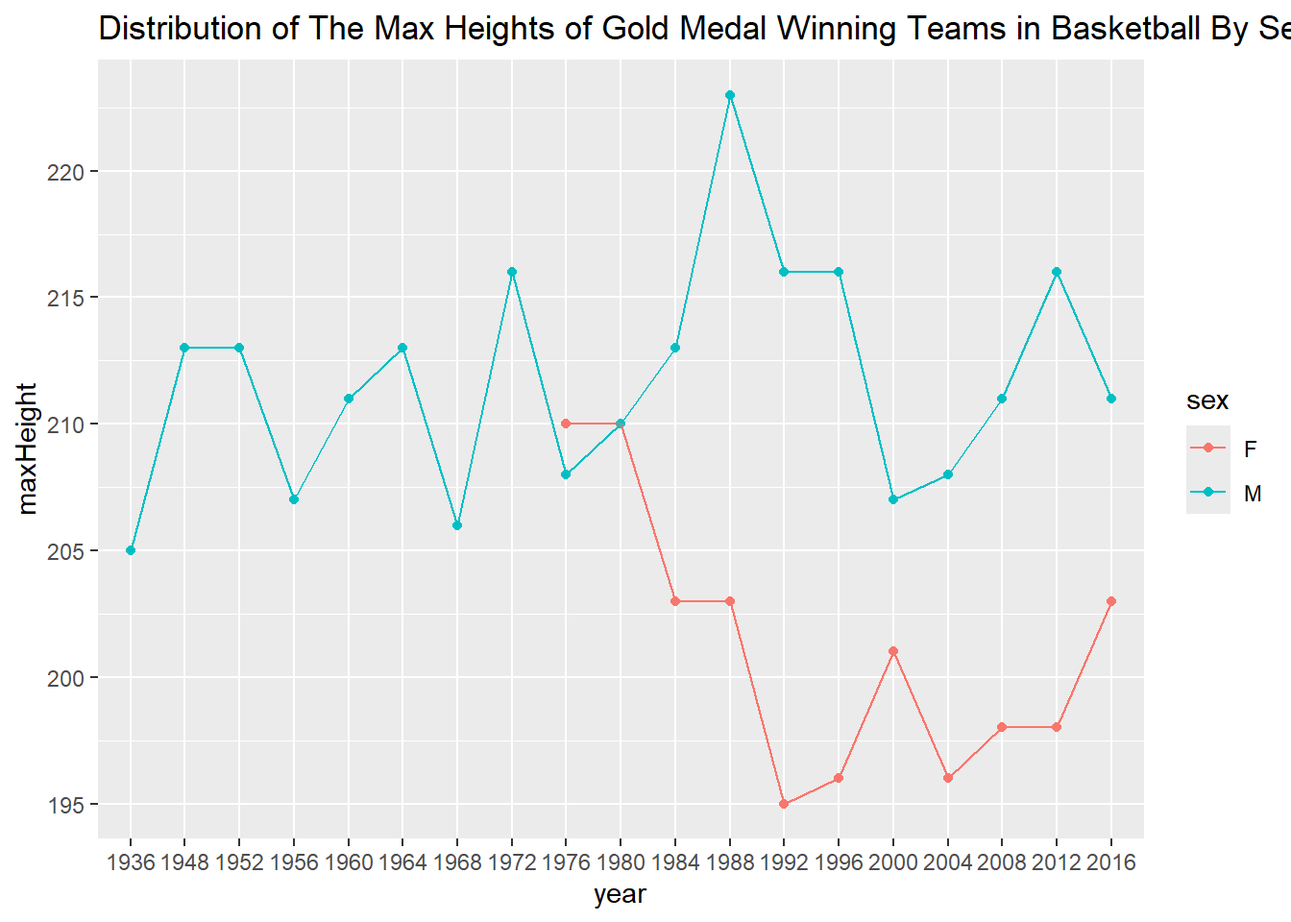
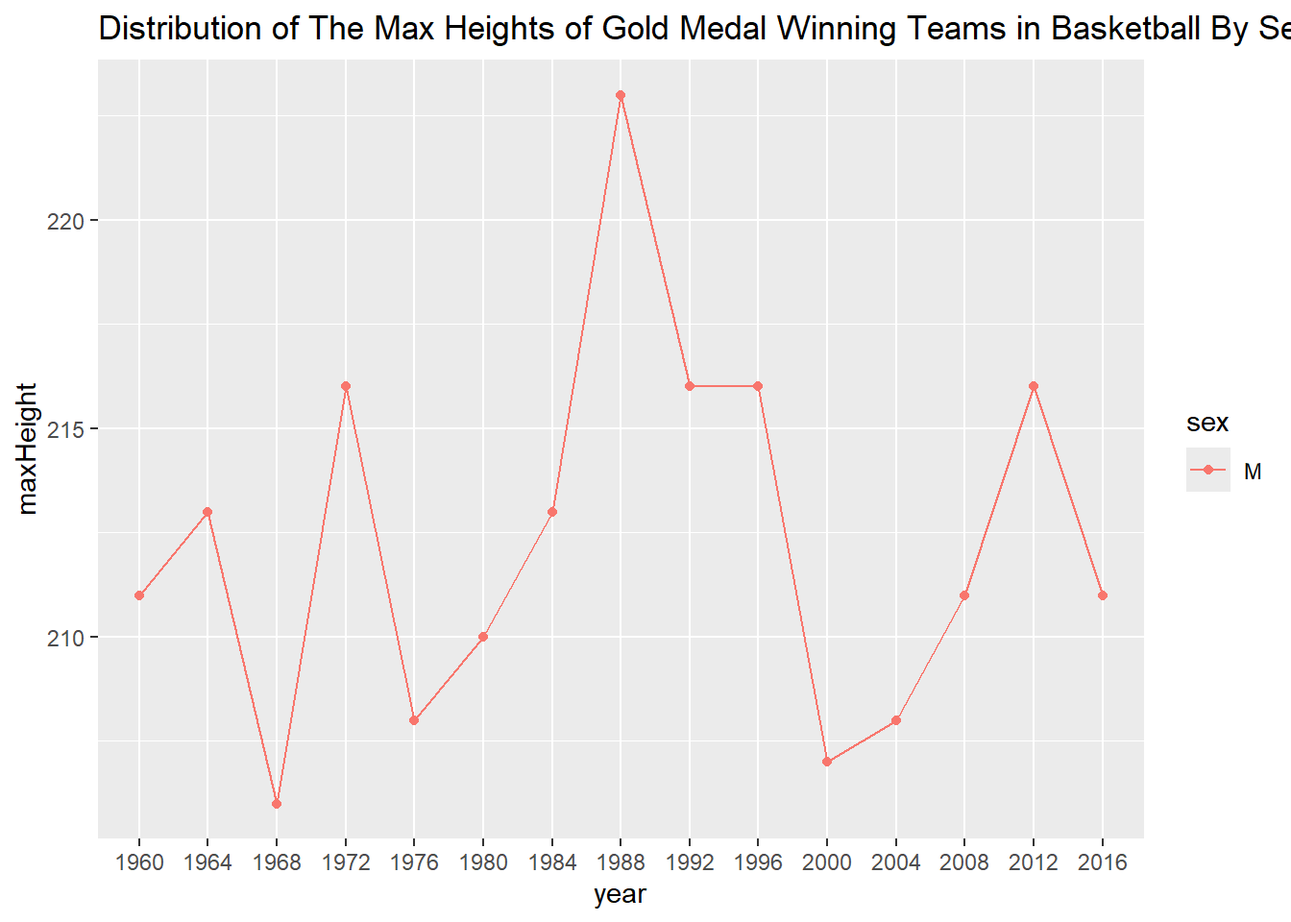
tidy tuesday 3 commit

diff --git a/TidyTuesday1.html b/TidyTuesday1.html
@@ -126,12 +126,14 @@ dbl  (5): id, age, height, weight, year
 <div class="sourceCode cell-code" id="cb5"><pre class="sourceCode r code-with-copy"><code class="sourceCode r"><span id="cb5-1"><a href="#cb5-1" aria-hidden="true" tabindex="-1"></a>olympics3 <span class="ot">&lt;-</span> olympics <span class="sc">%&gt;%</span></span>
 <span id="cb5-2"><a href="#cb5-2" aria-hidden="true" tabindex="-1"></a>  <span class="fu">filter</span>(sport <span class="sc">==</span> <span class="st">"Basketball"</span>) <span class="sc">%&gt;%</span></span>
 <span id="cb5-3"><a href="#cb5-3" aria-hidden="true" tabindex="-1"></a>  <span class="fu">filter</span>(medal <span class="sc">==</span> <span class="st">"Gold"</span>) <span class="sc">%&gt;%</span></span>
-<span id="cb5-4"><a href="#cb5-4" aria-hidden="true" tabindex="-1"></a>  <span class="fu">na.omit</span>() <span class="sc">%&gt;%</span></span>
-<span id="cb5-5"><a href="#cb5-5" aria-hidden="true" tabindex="-1"></a>  <span class="fu">group_by</span>(year)</span>
-<span id="cb5-6"><a href="#cb5-6" aria-hidden="true" tabindex="-1"></a></span>
-<span id="cb5-7"><a href="#cb5-7" aria-hidden="true" tabindex="-1"></a>olympics4 <span class="ot">&lt;-</span> olympics3 <span class="sc">%&gt;%</span></span>
-<span id="cb5-8"><a href="#cb5-8" aria-hidden="true" tabindex="-1"></a>  <span class="fu">mutate</span>(<span class="at">avgheight =</span> <span class="fu">mean</span>(height)) <span class="sc">%&gt;%</span></span>
-<span id="cb5-9"><a href="#cb5-9" aria-hidden="true" tabindex="-1"></a>  <span class="fu">mutate</span>(<span class="at">year =</span> <span class="fu">as.factor</span>(year))</span></code><button title="Copy to Clipboard" class="code-copy-button"><i class="bi"></i></button></pre></div>
+<span id="cb5-4"><a href="#cb5-4" aria-hidden="true" tabindex="-1"></a>  <span class="fu">filter</span>(sex <span class="sc">==</span> <span class="st">"M"</span>) <span class="sc">%&gt;%</span></span>
+<span id="cb5-5"><a href="#cb5-5" aria-hidden="true" tabindex="-1"></a>  <span class="fu">filter</span>(year <span class="sc">&gt;</span> <span class="dv">1957</span>) <span class="sc">%&gt;%</span></span>
+<span id="cb5-6"><a href="#cb5-6" aria-hidden="true" tabindex="-1"></a>  <span class="fu">na.omit</span>() <span class="sc">%&gt;%</span></span>
+<span id="cb5-7"><a href="#cb5-7" aria-hidden="true" tabindex="-1"></a>  <span class="fu">group_by</span>(year)</span>
+<span id="cb5-8"><a href="#cb5-8" aria-hidden="true" tabindex="-1"></a></span>
+<span id="cb5-9"><a href="#cb5-9" aria-hidden="true" tabindex="-1"></a>olympics4 <span class="ot">&lt;-</span> olympics3 <span class="sc">%&gt;%</span></span>
+<span id="cb5-10"><a href="#cb5-10" aria-hidden="true" tabindex="-1"></a>  <span class="fu">mutate</span>(<span class="at">avgheight =</span> <span class="fu">mean</span>(height)) <span class="sc">%&gt;%</span></span>
+<span id="cb5-11"><a href="#cb5-11" aria-hidden="true" tabindex="-1"></a>  <span class="fu">mutate</span>(<span class="at">year =</span> <span class="fu">as.factor</span>(year))</span></code><button title="Copy to Clipboard" class="code-copy-button"><i class="bi"></i></button></pre></div>
 </div>
 <div class="cell">
 <div class="sourceCode cell-code" id="cb6"><pre class="sourceCode r code-with-copy"><code class="sourceCode r"><span id="cb6-1"><a href="#cb6-1" aria-hidden="true" tabindex="-1"></a>olympics <span class="sc">%&gt;%</span></span>
@@ -204,21 +206,16 @@ dbl  (5): id, age, height, weight, year
 </div>
 </div>
 <div class="cell">
-<div class="sourceCode cell-code" id="cb11"><pre class="sourceCode r code-with-copy"><code class="sourceCode r"><span id="cb11-1"><a href="#cb11-1" aria-hidden="true" tabindex="-1"></a>olympics5 <span class="ot">&lt;-</span> olympics <span class="sc">%&gt;%</span></span>
-<span id="cb11-2"><a href="#cb11-2" aria-hidden="true" tabindex="-1"></a>  <span class="fu">filter</span>(sport <span class="sc">==</span> <span class="st">'Basketball'</span>) <span class="sc">%&gt;%</span></span>
-<span id="cb11-3"><a href="#cb11-3" aria-hidden="true" tabindex="-1"></a>  na.omit <span class="sc">%&gt;%</span></span>
-<span id="cb11-4"><a href="#cb11-4" aria-hidden="true" tabindex="-1"></a>  <span class="fu">group_by</span>(medal, year) <span class="sc">%&gt;%</span></span>
-<span id="cb11-5"><a href="#cb11-5" aria-hidden="true" tabindex="-1"></a>  <span class="fu">mutate</span>(<span class="at">meanHeight =</span> <span class="fu">mean</span>(height))</span>
-<span id="cb11-6"><a href="#cb11-6" aria-hidden="true" tabindex="-1"></a></span>
-<span id="cb11-7"><a href="#cb11-7" aria-hidden="true" tabindex="-1"></a> olympics5 <span class="sc">%&gt;%</span></span>
-<span id="cb11-8"><a href="#cb11-8" aria-hidden="true" tabindex="-1"></a>  <span class="fu">ggplot</span>(<span class="fu">aes</span>(<span class="at">x =</span> year, <span class="at">y =</span> meanHeight, <span class="at">color =</span> medal, <span class="at">shape =</span> medal)) <span class="sc">+</span></span>
-<span id="cb11-9"><a href="#cb11-9" aria-hidden="true" tabindex="-1"></a>  <span class="fu">geom_point</span>() <span class="sc">+</span></span>
-<span id="cb11-10"><a href="#cb11-10" aria-hidden="true" tabindex="-1"></a>  <span class="fu">geom_line</span>(<span class="at">size =</span> <span class="dv">1</span>) <span class="sc">+</span></span>
-<span id="cb11-11"><a href="#cb11-11" aria-hidden="true" tabindex="-1"></a>  <span class="fu">labs</span>(<span class="at">title =</span> <span class="st">"Distribution of Average Heights of Olympic Teams Over Time by Medal"</span>)</span></code><button title="Copy to Clipboard" class="code-copy-button"><i class="bi"></i></button></pre></div>
-<div class="cell-output cell-output-stderr">
-<pre><code>Warning: Using `size` aesthetic for lines was deprecated in ggplot2 3.4.0.
-ℹ Please use `linewidth` instead.</code></pre>
-</div>
+<div class="sourceCode cell-code" id="cb11"><pre class="sourceCode r code-with-copy"><code class="sourceCode r"><span id="cb11-1"><a href="#cb11-1" aria-hidden="true" tabindex="-1"></a>olympics6 <span class="ot">&lt;-</span> olympics4 <span class="sc">%&gt;%</span></span>
+<span id="cb11-2"><a href="#cb11-2" aria-hidden="true" tabindex="-1"></a>  <span class="fu">group_by</span>(year,sex) <span class="sc">%&gt;%</span></span>
+<span id="cb11-3"><a href="#cb11-3" aria-hidden="true" tabindex="-1"></a>  <span class="fu">mutate</span>(<span class="at">mHeight =</span> <span class="fu">mean</span>(height)) <span class="sc">%&gt;%</span></span>
+<span id="cb11-4"><a href="#cb11-4" aria-hidden="true" tabindex="-1"></a>  <span class="fu">ggplot</span>(<span class="fu">aes</span>(<span class="at">x =</span> year, <span class="at">y =</span> mHeight, <span class="at">color =</span> sex, <span class="at">group =</span> sex)) <span class="sc">+</span></span>
+<span id="cb11-5"><a href="#cb11-5" aria-hidden="true" tabindex="-1"></a>  <span class="fu">geom_point</span>() <span class="sc">+</span></span>
+<span id="cb11-6"><a href="#cb11-6" aria-hidden="true" tabindex="-1"></a>  <span class="fu">geom_line</span>() <span class="sc">+</span></span>
+<span id="cb11-7"><a href="#cb11-7" aria-hidden="true" tabindex="-1"></a>  <span class="fu">labs</span>(<span class="at">title =</span> <span class="st">"Average Heights of Gold Medal Winning Basketball Teams Divided by Sex"</span>, <span class="at">y =</span> <span class="st">"Average Height"</span>) <span class="sc">+</span></span>
+<span id="cb11-8"><a href="#cb11-8" aria-hidden="true" tabindex="-1"></a>  <span class="fu">theme_minimal</span>()</span>
+<span id="cb11-9"><a href="#cb11-9" aria-hidden="true" tabindex="-1"></a></span>
+<span id="cb11-10"><a href="#cb11-10" aria-hidden="true" tabindex="-1"></a>olympics6</span></code><button title="Copy to Clipboard" class="code-copy-button"><i class="bi"></i></button></pre></div>
 <div class="cell-output-display">
 <div>
 <figure class="figure">
@@ -228,16 +225,13 @@ dbl  (5): id, age, height, weight, year
 </div>
 </div>
 <div class="cell">
-<div class="sourceCode cell-code" id="cb13"><pre class="sourceCode r code-with-copy"><code class="sourceCode r"><span id="cb13-1"><a href="#cb13-1" aria-hidden="true" tabindex="-1"></a>olympics6 <span class="ot">&lt;-</span> olympics4 <span class="sc">%&gt;%</span></span>
-<span id="cb13-2"><a href="#cb13-2" aria-hidden="true" tabindex="-1"></a>  <span class="fu">group_by</span>(year,sex) <span class="sc">%&gt;%</span></span>
-<span id="cb13-3"><a href="#cb13-3" aria-hidden="true" tabindex="-1"></a>  <span class="fu">mutate</span>(<span class="at">mHeight =</span> <span class="fu">mean</span>(height)) <span class="sc">%&gt;%</span></span>
-<span id="cb13-4"><a href="#cb13-4" aria-hidden="true" tabindex="-1"></a>  <span class="fu">ggplot</span>(<span class="fu">aes</span>(<span class="at">x =</span> year, <span class="at">y =</span> mHeight, <span class="at">color =</span> sex, <span class="at">group =</span> sex)) <span class="sc">+</span></span>
-<span id="cb13-5"><a href="#cb13-5" aria-hidden="true" tabindex="-1"></a>  <span class="fu">geom_point</span>() <span class="sc">+</span></span>
-<span id="cb13-6"><a href="#cb13-6" aria-hidden="true" tabindex="-1"></a>  <span class="fu">geom_line</span>() <span class="sc">+</span></span>
-<span id="cb13-7"><a href="#cb13-7" aria-hidden="true" tabindex="-1"></a>  <span class="fu">labs</span>(<span class="at">title =</span> <span class="st">"Average Heights of Gold Medal Winning Basketball Teams Divided by Sex"</span>, <span class="at">y =</span> <span class="st">"Average Height"</span>) <span class="sc">+</span></span>
-<span id="cb13-8"><a href="#cb13-8" aria-hidden="true" tabindex="-1"></a>  <span class="fu">theme_minimal</span>()</span>
-<span id="cb13-9"><a href="#cb13-9" aria-hidden="true" tabindex="-1"></a></span>
-<span id="cb13-10"><a href="#cb13-10" aria-hidden="true" tabindex="-1"></a>olympics6</span></code><button title="Copy to Clipboard" class="code-copy-button"><i class="bi"></i></button></pre></div>
+<div class="sourceCode cell-code" id="cb12"><pre class="sourceCode r code-with-copy"><code class="sourceCode r"><span id="cb12-1"><a href="#cb12-1" aria-hidden="true" tabindex="-1"></a>olympics4 <span class="sc">%&gt;%</span></span>
+<span id="cb12-2"><a href="#cb12-2" aria-hidden="true" tabindex="-1"></a>  <span class="fu">filter</span>(sex <span class="sc">==</span> <span class="st">'M'</span>) <span class="sc">%&gt;%</span></span>
+<span id="cb12-3"><a href="#cb12-3" aria-hidden="true" tabindex="-1"></a>  <span class="fu">ggplot</span>(<span class="fu">aes</span>(<span class="at">x =</span> height, <span class="at">fill =</span> year)) <span class="sc">+</span></span>
+<span id="cb12-4"><a href="#cb12-4" aria-hidden="true" tabindex="-1"></a>  <span class="fu">geom_boxplot</span>() <span class="sc">+</span></span>
+<span id="cb12-5"><a href="#cb12-5" aria-hidden="true" tabindex="-1"></a>  <span class="fu">facet_wrap</span>(year<span class="sc">~</span>., <span class="at">nrow =</span> <span class="dv">5</span>) <span class="sc">+</span></span>
+<span id="cb12-6"><a href="#cb12-6" aria-hidden="true" tabindex="-1"></a>  <span class="fu">labs</span>(<span class="at">x =</span> <span class="st">'Height Distribution'</span>, <span class="at">y =</span> <span class="st">'Frequency'</span>, <span class="at">title =</span> <span class="st">'Distribution of Heights of Olympic Champion Basketball </span><span class="sc">\n</span><span class="st"> Rosters Over Time'</span>) <span class="sc">+</span></span>
+<span id="cb12-7"><a href="#cb12-7" aria-hidden="true" tabindex="-1"></a>  <span class="fu">theme_minimal</span>()</span></code><button title="Copy to Clipboard" class="code-copy-button"><i class="bi"></i></button></pre></div>
 <div class="cell-output-display">
 <div>
 <figure class="figure">
@@ -247,13 +241,14 @@ dbl  (5): id, age, height, weight, year
 </div>
 </div>
 <div class="cell">
-<div class="sourceCode cell-code" id="cb14"><pre class="sourceCode r code-with-copy"><code class="sourceCode r"><span id="cb14-1"><a href="#cb14-1" aria-hidden="true" tabindex="-1"></a>olympics4 <span class="sc">%&gt;%</span></span>
-<span id="cb14-2"><a href="#cb14-2" aria-hidden="true" tabindex="-1"></a>  <span class="fu">filter</span>(sex <span class="sc">==</span> <span class="st">'M'</span>) <span class="sc">%&gt;%</span></span>
-<span id="cb14-3"><a href="#cb14-3" aria-hidden="true" tabindex="-1"></a>  <span class="fu">ggplot</span>(<span class="fu">aes</span>(<span class="at">x =</span> height, <span class="at">fill =</span> year)) <span class="sc">+</span></span>
-<span id="cb14-4"><a href="#cb14-4" aria-hidden="true" tabindex="-1"></a>  <span class="fu">geom_boxplot</span>() <span class="sc">+</span></span>
-<span id="cb14-5"><a href="#cb14-5" aria-hidden="true" tabindex="-1"></a>  <span class="fu">facet_wrap</span>(year<span class="sc">~</span>., <span class="at">nrow =</span> <span class="dv">5</span>) <span class="sc">+</span></span>
-<span id="cb14-6"><a href="#cb14-6" aria-hidden="true" tabindex="-1"></a>  <span class="fu">labs</span>(<span class="at">x =</span> <span class="st">'Height Distribution'</span>, <span class="at">y =</span> <span class="st">'Frequency'</span>, <span class="at">title =</span> <span class="st">'Distribution of Heights of Olympic Champion Basketball </span><span class="sc">\n</span><span class="st"> Rosters Over Time'</span>) <span class="sc">+</span></span>
-<span id="cb14-7"><a href="#cb14-7" aria-hidden="true" tabindex="-1"></a>  <span class="fu">theme_minimal</span>()</span></code><button title="Copy to Clipboard" class="code-copy-button"><i class="bi"></i></button></pre></div>
+<div class="sourceCode cell-code" id="cb13"><pre class="sourceCode r code-with-copy"><code class="sourceCode r"><span id="cb13-1"><a href="#cb13-1" aria-hidden="true" tabindex="-1"></a>olympics4 <span class="sc">%&gt;%</span></span>
+<span id="cb13-2"><a href="#cb13-2" aria-hidden="true" tabindex="-1"></a>  <span class="fu">ggplot</span>(<span class="fu">aes</span>(<span class="at">x =</span> height, <span class="at">fill =</span> year)) <span class="sc">+</span></span>
+<span id="cb13-3"><a href="#cb13-3" aria-hidden="true" tabindex="-1"></a>  <span class="fu">geom_density</span>() <span class="sc">+</span></span>
+<span id="cb13-4"><a href="#cb13-4" aria-hidden="true" tabindex="-1"></a>  <span class="fu">facet_wrap</span>(year<span class="sc">~</span>.) <span class="sc">+</span></span>
+<span id="cb13-5"><a href="#cb13-5" aria-hidden="true" tabindex="-1"></a>  <span class="fu">labs</span>(<span class="at">x =</span> <span class="st">'Height Distribution'</span>, <span class="at">y =</span> <span class="st">'Frequency'</span>, <span class="at">title =</span> <span class="st">'Distribution of Heights of Olympic Champion Basketball </span><span class="sc">\n</span><span class="st"> Rosters Over Time'</span>) <span class="sc">+</span></span>
+<span id="cb13-6"><a href="#cb13-6" aria-hidden="true" tabindex="-1"></a>  <span class="fu">theme_minimal</span>() <span class="sc">+</span></span>
+<span id="cb13-7"><a href="#cb13-7" aria-hidden="true" tabindex="-1"></a> <span class="fu">geom_vline</span>(<span class="fu">aes</span>(<span class="at">xintercept =</span> avgheight))<span class="sc">+</span></span>
+<span id="cb13-8"><a href="#cb13-8" aria-hidden="true" tabindex="-1"></a><span class="fu">scale_fill_manual</span>(<span class="at">values=</span><span class="fu">c</span>(<span class="st">"green"</span>,<span class="st">"orange"</span>,<span class="st">"blue"</span>,<span class="st">"black"</span>, <span class="st">"red4"</span>, <span class="st">"orangered"</span>,<span class="st">"cyan"</span>,<span class="st">"darkviolet"</span>,<span class="st">"darksalmon"</span>,<span class="st">"darkorange"</span>,<span class="st">"cornsilk"</span>,<span class="st">"darkgoldenrod1"</span>,<span class="st">"deeppink"</span>,<span class="st">"burlywood1"</span>,<span class="st">"blue4"</span>,<span class="st">"darkgreen"</span>,<span class="st">"darkslategray3"</span>,<span class="st">"deepskyblue"</span>, <span class="st">"grey"</span>))</span></code><button title="Copy to Clipboard" class="code-copy-button"><i class="bi"></i></button></pre></div>
 <div class="cell-output-display">
 <div>
 <figure class="figure">
@@ -261,6 +256,139 @@ dbl  (5): id, age, height, weight, year
 </figure>
 </div>
 </div>
+</div>
+<div class="cell">
+<div class="sourceCode cell-code" id="cb14"><pre class="sourceCode r code-with-copy"><code class="sourceCode r"><span id="cb14-1"><a href="#cb14-1" aria-hidden="true" tabindex="-1"></a>plot<span class="fl">.1</span> <span class="ot">&lt;-</span> olympics4 <span class="sc">%&gt;%</span></span>
+<span id="cb14-2"><a href="#cb14-2" aria-hidden="true" tabindex="-1"></a>  <span class="fu">ggplot</span>() <span class="sc">+</span></span>
+<span id="cb14-3"><a href="#cb14-3" aria-hidden="true" tabindex="-1"></a>  <span class="fu">geom_violin</span>(<span class="fu">aes</span>(<span class="at">x =</span> year, <span class="at">y =</span> height)) <span class="sc">+</span></span>
+<span id="cb14-4"><a href="#cb14-4" aria-hidden="true" tabindex="-1"></a>  <span class="fu">geom_point</span>(<span class="fu">aes</span>(<span class="at">x =</span> year, <span class="at">y =</span> avgheight)) <span class="sc">+</span></span>
+<span id="cb14-5"><a href="#cb14-5" aria-hidden="true" tabindex="-1"></a>  <span class="fu">labs</span>(<span class="at">x =</span> <span class="st">'Year'</span>, <span class="at">y =</span> <span class="st">'Height Distribution'</span>, <span class="at">title =</span> <span class="st">"Gold Medal Men's Basketball Teams"</span>, <span class="at">caption =</span> <span class="st">'Points represent mean height in a given year'</span>) <span class="sc">+</span></span>
+<span id="cb14-6"><a href="#cb14-6" aria-hidden="true" tabindex="-1"></a>  <span class="fu">theme_minimal</span>()</span>
+<span id="cb14-7"><a href="#cb14-7" aria-hidden="true" tabindex="-1"></a></span>
+<span id="cb14-8"><a href="#cb14-8" aria-hidden="true" tabindex="-1"></a>plot<span class="fl">.1</span></span></code><button title="Copy to Clipboard" class="code-copy-button"><i class="bi"></i></button></pre></div>
+<div class="cell-output-display">
+<div>
+<figure class="figure">
+<p><img src="TidyTuesday1_files/figure-html/unnamed-chunk-10-1.png" class="img-fluid figure-img" width="672"></p>
+</figure>
+</div>
+</div>
+</div>
+<div class="cell">
+<div class="sourceCode cell-code" id="cb15"><pre class="sourceCode r code-with-copy"><code class="sourceCode r"><span id="cb15-1"><a href="#cb15-1" aria-hidden="true" tabindex="-1"></a>olympics7 <span class="ot">&lt;-</span> olympics <span class="sc">%&gt;%</span></span>
+<span id="cb15-2"><a href="#cb15-2" aria-hidden="true" tabindex="-1"></a>  <span class="fu">filter</span>(sport <span class="sc">==</span> <span class="st">"Basketball"</span>) <span class="sc">%&gt;%</span></span>
+<span id="cb15-3"><a href="#cb15-3" aria-hidden="true" tabindex="-1"></a>  <span class="fu">filter</span>(medal <span class="sc">==</span> <span class="st">"Silver"</span>) <span class="sc">%&gt;%</span></span>
+<span id="cb15-4"><a href="#cb15-4" aria-hidden="true" tabindex="-1"></a>  <span class="fu">filter</span>(sex <span class="sc">==</span> <span class="st">"M"</span>) <span class="sc">%&gt;%</span></span>
+<span id="cb15-5"><a href="#cb15-5" aria-hidden="true" tabindex="-1"></a>  <span class="fu">filter</span>(year <span class="sc">&gt;</span> <span class="dv">1957</span>) <span class="sc">%&gt;%</span></span>
+<span id="cb15-6"><a href="#cb15-6" aria-hidden="true" tabindex="-1"></a>  <span class="fu">na.omit</span>() <span class="sc">%&gt;%</span></span>
+<span id="cb15-7"><a href="#cb15-7" aria-hidden="true" tabindex="-1"></a>  <span class="fu">group_by</span>(year)</span>
+<span id="cb15-8"><a href="#cb15-8" aria-hidden="true" tabindex="-1"></a></span>
+<span id="cb15-9"><a href="#cb15-9" aria-hidden="true" tabindex="-1"></a>olympics7 <span class="ot">&lt;-</span> olympics7 <span class="sc">%&gt;%</span></span>
+<span id="cb15-10"><a href="#cb15-10" aria-hidden="true" tabindex="-1"></a>  <span class="fu">mutate</span>(<span class="at">avgheight =</span> <span class="fu">mean</span>(height)) <span class="sc">%&gt;%</span></span>
+<span id="cb15-11"><a href="#cb15-11" aria-hidden="true" tabindex="-1"></a>  <span class="fu">mutate</span>(<span class="at">year =</span> <span class="fu">as.factor</span>(year))</span></code><button title="Copy to Clipboard" class="code-copy-button"><i class="bi"></i></button></pre></div>
+</div>
+<div class="cell">
+<div class="sourceCode cell-code" id="cb16"><pre class="sourceCode r code-with-copy"><code class="sourceCode r"><span id="cb16-1"><a href="#cb16-1" aria-hidden="true" tabindex="-1"></a>olympics8 <span class="ot">&lt;-</span> olympics <span class="sc">%&gt;%</span></span>
+<span id="cb16-2"><a href="#cb16-2" aria-hidden="true" tabindex="-1"></a>  <span class="fu">filter</span>(sport <span class="sc">==</span> <span class="st">"Basketball"</span>) <span class="sc">%&gt;%</span></span>
+<span id="cb16-3"><a href="#cb16-3" aria-hidden="true" tabindex="-1"></a>  <span class="fu">filter</span>(medal <span class="sc">==</span> <span class="st">"Bronze"</span>) <span class="sc">%&gt;%</span></span>
+<span id="cb16-4"><a href="#cb16-4" aria-hidden="true" tabindex="-1"></a>  <span class="fu">filter</span>(sex <span class="sc">==</span> <span class="st">'M'</span>) <span class="sc">%&gt;%</span></span>
+<span id="cb16-5"><a href="#cb16-5" aria-hidden="true" tabindex="-1"></a>  <span class="fu">filter</span>(year <span class="sc">&gt;</span> <span class="dv">1957</span>) <span class="sc">%&gt;%</span></span>
+<span id="cb16-6"><a href="#cb16-6" aria-hidden="true" tabindex="-1"></a>  <span class="fu">na.omit</span>() <span class="sc">%&gt;%</span></span>
+<span id="cb16-7"><a href="#cb16-7" aria-hidden="true" tabindex="-1"></a>  <span class="fu">group_by</span>(year)</span>
+<span id="cb16-8"><a href="#cb16-8" aria-hidden="true" tabindex="-1"></a></span>
+<span id="cb16-9"><a href="#cb16-9" aria-hidden="true" tabindex="-1"></a>olympics8 <span class="ot">&lt;-</span> olympics8 <span class="sc">%&gt;%</span></span>
+<span id="cb16-10"><a href="#cb16-10" aria-hidden="true" tabindex="-1"></a>  <span class="fu">mutate</span>(<span class="at">avgheight =</span> <span class="fu">mean</span>(height)) <span class="sc">%&gt;%</span></span>
+<span id="cb16-11"><a href="#cb16-11" aria-hidden="true" tabindex="-1"></a>  <span class="fu">mutate</span>(<span class="at">year =</span> <span class="fu">as.factor</span>(year))</span></code><button title="Copy to Clipboard" class="code-copy-button"><i class="bi"></i></button></pre></div>
+</div>
+<div class="cell">
+<div class="sourceCode cell-code" id="cb17"><pre class="sourceCode r code-with-copy"><code class="sourceCode r"><span id="cb17-1"><a href="#cb17-1" aria-hidden="true" tabindex="-1"></a>plot<span class="fl">.2</span> <span class="ot">&lt;-</span> olympics7 <span class="sc">%&gt;%</span></span>
+<span id="cb17-2"><a href="#cb17-2" aria-hidden="true" tabindex="-1"></a>  <span class="fu">ggplot</span>() <span class="sc">+</span></span>
+<span id="cb17-3"><a href="#cb17-3" aria-hidden="true" tabindex="-1"></a>  <span class="fu">geom_violin</span>(<span class="fu">aes</span>(<span class="at">x =</span> year, <span class="at">y =</span> height)) <span class="sc">+</span></span>
+<span id="cb17-4"><a href="#cb17-4" aria-hidden="true" tabindex="-1"></a>  <span class="fu">geom_point</span>(<span class="fu">aes</span>(<span class="at">x =</span> year, <span class="at">y =</span> avgheight)) <span class="sc">+</span></span>
+<span id="cb17-5"><a href="#cb17-5" aria-hidden="true" tabindex="-1"></a>  <span class="fu">labs</span>(<span class="at">x =</span> <span class="st">'Year'</span>, <span class="at">y =</span> <span class="st">'Height Distribution'</span>, <span class="at">title =</span> <span class="st">"Silver Medal Men's Basketball Teams"</span>, <span class="at">caption =</span> <span class="st">'Points represent mean height in a given year'</span>) <span class="sc">+</span></span>
+<span id="cb17-6"><a href="#cb17-6" aria-hidden="true" tabindex="-1"></a>  <span class="fu">theme_minimal</span>()</span>
+<span id="cb17-7"><a href="#cb17-7" aria-hidden="true" tabindex="-1"></a></span>
+<span id="cb17-8"><a href="#cb17-8" aria-hidden="true" tabindex="-1"></a>plot<span class="fl">.2</span></span></code><button title="Copy to Clipboard" class="code-copy-button"><i class="bi"></i></button></pre></div>
+<div class="cell-output-display">
+<div>
+<figure class="figure">
+<p><img src="TidyTuesday1_files/figure-html/unnamed-chunk-13-1.png" class="img-fluid figure-img" width="672"></p>
+</figure>
+</div>
+</div>
+</div>
+<div class="cell">
+<div class="sourceCode cell-code" id="cb18"><pre class="sourceCode r code-with-copy"><code class="sourceCode r"><span id="cb18-1"><a href="#cb18-1" aria-hidden="true" tabindex="-1"></a>plot<span class="fl">.3</span> <span class="ot">&lt;-</span> olympics8 <span class="sc">%&gt;%</span></span>
+<span id="cb18-2"><a href="#cb18-2" aria-hidden="true" tabindex="-1"></a>  <span class="fu">ggplot</span>() <span class="sc">+</span></span>
+<span id="cb18-3"><a href="#cb18-3" aria-hidden="true" tabindex="-1"></a>  <span class="fu">geom_violin</span>(<span class="fu">aes</span>(<span class="at">x =</span> year, <span class="at">y =</span> height)) <span class="sc">+</span></span>
+<span id="cb18-4"><a href="#cb18-4" aria-hidden="true" tabindex="-1"></a>  <span class="fu">geom_point</span>(<span class="fu">aes</span>(<span class="at">x =</span> year, <span class="at">y =</span> avgheight)) <span class="sc">+</span></span>
+<span id="cb18-5"><a href="#cb18-5" aria-hidden="true" tabindex="-1"></a>  <span class="fu">labs</span>(<span class="at">x =</span> <span class="st">'Year'</span>, <span class="at">y =</span> <span class="st">'Height Distribution'</span>, <span class="at">title =</span> <span class="st">"Bronze Medal Mens' Basketball Teams"</span>, <span class="at">caption =</span> <span class="st">'Points represent mean height in a given year'</span>) <span class="sc">+</span></span>
+<span id="cb18-6"><a href="#cb18-6" aria-hidden="true" tabindex="-1"></a>  <span class="fu">theme_minimal</span>()</span>
+<span id="cb18-7"><a href="#cb18-7" aria-hidden="true" tabindex="-1"></a></span>
+<span id="cb18-8"><a href="#cb18-8" aria-hidden="true" tabindex="-1"></a>plot<span class="fl">.3</span></span></code><button title="Copy to Clipboard" class="code-copy-button"><i class="bi"></i></button></pre></div>
+<div class="cell-output-display">
+<div>
+<figure class="figure">
+<p><img src="TidyTuesday1_files/figure-html/unnamed-chunk-14-1.png" class="img-fluid figure-img" width="672"></p>
+</figure>
+</div>
+</div>
+</div>
+<div class="cell">
+<div class="sourceCode cell-code" id="cb19"><pre class="sourceCode r code-with-copy"><code class="sourceCode r"><span id="cb19-1"><a href="#cb19-1" aria-hidden="true" tabindex="-1"></a>olympics5 <span class="ot">&lt;-</span> olympics <span class="sc">%&gt;%</span></span>
+<span id="cb19-2"><a href="#cb19-2" aria-hidden="true" tabindex="-1"></a>  <span class="fu">filter</span>(sport <span class="sc">==</span> <span class="st">'Basketball'</span>) <span class="sc">%&gt;%</span></span>
+<span id="cb19-3"><a href="#cb19-3" aria-hidden="true" tabindex="-1"></a>  <span class="fu">filter</span>(year <span class="sc">&gt;</span> <span class="dv">1957</span>) <span class="sc">%&gt;%</span></span>
+<span id="cb19-4"><a href="#cb19-4" aria-hidden="true" tabindex="-1"></a>  na.omit <span class="sc">%&gt;%</span></span>
+<span id="cb19-5"><a href="#cb19-5" aria-hidden="true" tabindex="-1"></a>  <span class="fu">group_by</span>(medal, year) <span class="sc">%&gt;%</span></span>
+<span id="cb19-6"><a href="#cb19-6" aria-hidden="true" tabindex="-1"></a>  <span class="fu">mutate</span>(<span class="at">meanHeight =</span> <span class="fu">mean</span>(height))</span>
+<span id="cb19-7"><a href="#cb19-7" aria-hidden="true" tabindex="-1"></a></span>
+<span id="cb19-8"><a href="#cb19-8" aria-hidden="true" tabindex="-1"></a>plot<span class="fl">.4</span> <span class="ot">&lt;-</span> olympics5 <span class="sc">%&gt;%</span></span>
+<span id="cb19-9"><a href="#cb19-9" aria-hidden="true" tabindex="-1"></a>  <span class="fu">ggplot</span>(<span class="fu">aes</span>(<span class="at">x =</span> year, <span class="at">y =</span> meanHeight, <span class="at">color =</span> medal, <span class="at">shape =</span> medal)) <span class="sc">+</span></span>
+<span id="cb19-10"><a href="#cb19-10" aria-hidden="true" tabindex="-1"></a>  <span class="fu">geom_point</span>() <span class="sc">+</span></span>
+<span id="cb19-11"><a href="#cb19-11" aria-hidden="true" tabindex="-1"></a>  <span class="fu">geom_line</span>(<span class="at">size =</span> <span class="dv">1</span>) <span class="sc">+</span></span>
+<span id="cb19-12"><a href="#cb19-12" aria-hidden="true" tabindex="-1"></a>  <span class="fu">labs</span>(<span class="at">title =</span> <span class="st">"Distribution of Average Heights of Olympic Teams Over Time by Medal"</span>)</span></code><button title="Copy to Clipboard" class="code-copy-button"><i class="bi"></i></button></pre></div>
+<div class="cell-output cell-output-stderr">
+<pre><code>Warning: Using `size` aesthetic for lines was deprecated in ggplot2 3.4.0.
+ℹ Please use `linewidth` instead.</code></pre>
+</div>
+<div class="sourceCode cell-code" id="cb21"><pre class="sourceCode r code-with-copy"><code class="sourceCode r"><span id="cb21-1"><a href="#cb21-1" aria-hidden="true" tabindex="-1"></a>plot<span class="fl">.4</span></span></code><button title="Copy to Clipboard" class="code-copy-button"><i class="bi"></i></button></pre></div>
+<div class="cell-output-display">
+<div>
+<figure class="figure">
+<p><img src="TidyTuesday1_files/figure-html/unnamed-chunk-15-1.png" class="img-fluid figure-img" width="672"></p>
+</figure>
+</div>
+</div>
+</div>
+<div class="cell">
+<div class="sourceCode cell-code" id="cb22"><pre class="sourceCode r code-with-copy"><code class="sourceCode r"><span id="cb22-1"><a href="#cb22-1" aria-hidden="true" tabindex="-1"></a><span class="fu">library</span>(gridExtra)</span></code><button title="Copy to Clipboard" class="code-copy-button"><i class="bi"></i></button></pre></div>
+<div class="cell-output cell-output-stderr">
+<pre><code>
+Attaching package: 'gridExtra'</code></pre>
+</div>
+<div class="cell-output cell-output-stderr">
+<pre><code>The following object is masked from 'package:dplyr':
+
+    combine</code></pre>
+</div>
+<div class="sourceCode cell-code" id="cb25"><pre class="sourceCode r code-with-copy"><code class="sourceCode r"><span id="cb25-1"><a href="#cb25-1" aria-hidden="true" tabindex="-1"></a>plot<span class="fl">.5</span> <span class="ot">&lt;-</span> <span class="fu">grid.arrange</span>(plot<span class="fl">.1</span>, plot<span class="fl">.2</span>, plot<span class="fl">.3</span>,plot<span class="fl">.4</span>, <span class="at">nrow =</span> <span class="dv">4</span>)</span></code><button title="Copy to Clipboard" class="code-copy-button"><i class="bi"></i></button></pre></div>
+<div class="cell-output-display">
+<div>
+<figure class="figure">
+<p><img src="TidyTuesday1_files/figure-html/unnamed-chunk-16-1.png" class="img-fluid figure-img" width="672"></p>
+</figure>
+</div>
+</div>
+<div class="sourceCode cell-code" id="cb26"><pre class="sourceCode r code-with-copy"><code class="sourceCode r"><span id="cb26-1"><a href="#cb26-1" aria-hidden="true" tabindex="-1"></a>plot<span class="fl">.5</span></span></code><button title="Copy to Clipboard" class="code-copy-button"><i class="bi"></i></button></pre></div>
+<div class="cell-output cell-output-stdout">
+<pre><code>TableGrob (4 x 1) "arrange": 4 grobs
+  z     cells    name           grob
+1 1 (1-1,1-1) arrange gtable[layout]
+2 2 (2-2,1-1) arrange gtable[layout]
+3 3 (3-3,1-1) arrange gtable[layout]
+4 4 (4-4,1-1) arrange gtable[layout]</code></pre>
+</div>
+<div class="sourceCode cell-code" id="cb28"><pre class="sourceCode r code-with-copy"><code class="sourceCode r"><span id="cb28-1"><a href="#cb28-1" aria-hidden="true" tabindex="-1"></a><span class="fu">ggsave</span>(<span class="st">"tidytuesday3plot.png"</span>, <span class="at">plot =</span> plot<span class="fl">.5</span>, <span class="at">width =</span> <span class="dv">10</span>, <span class="at">height =</span> <span class="dv">10</span>)</span></code><button title="Copy to Clipboard" class="code-copy-button"><i class="bi"></i></button></pre></div>
 </div>
 
 </main>
